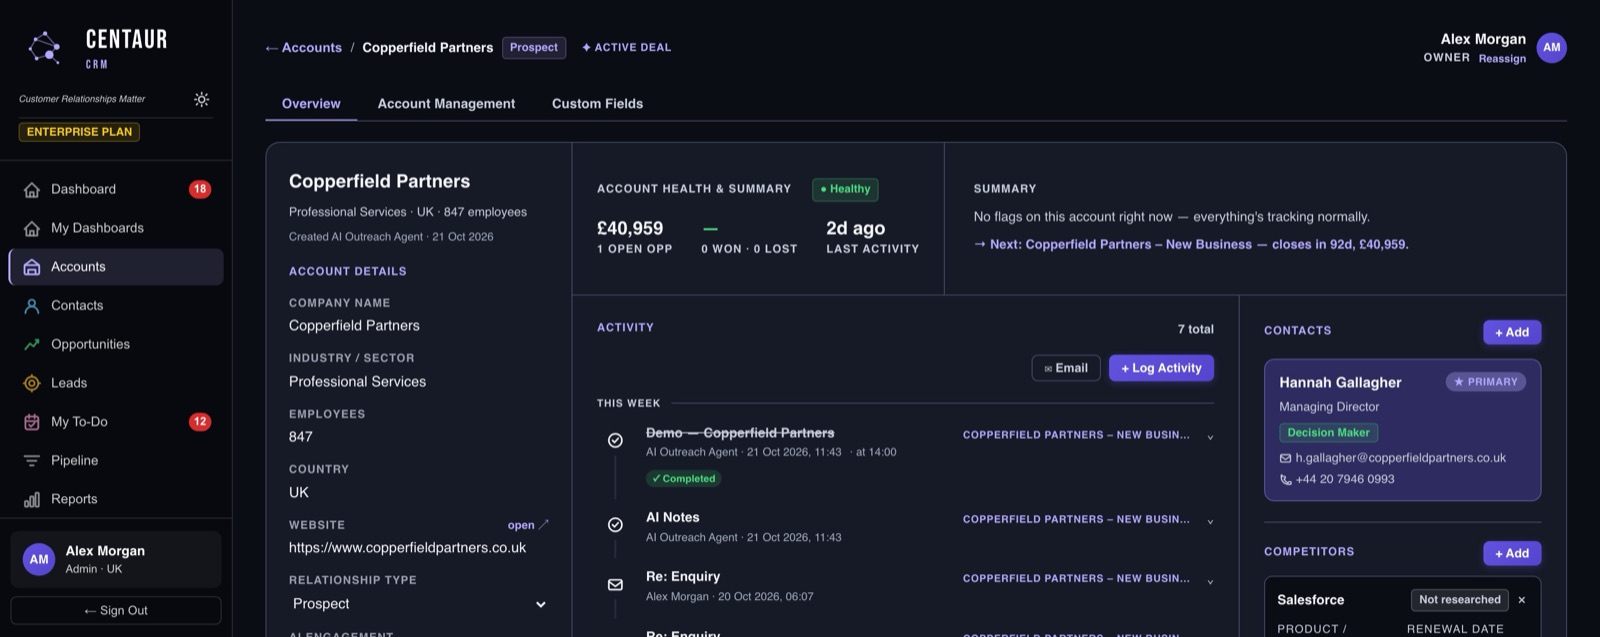
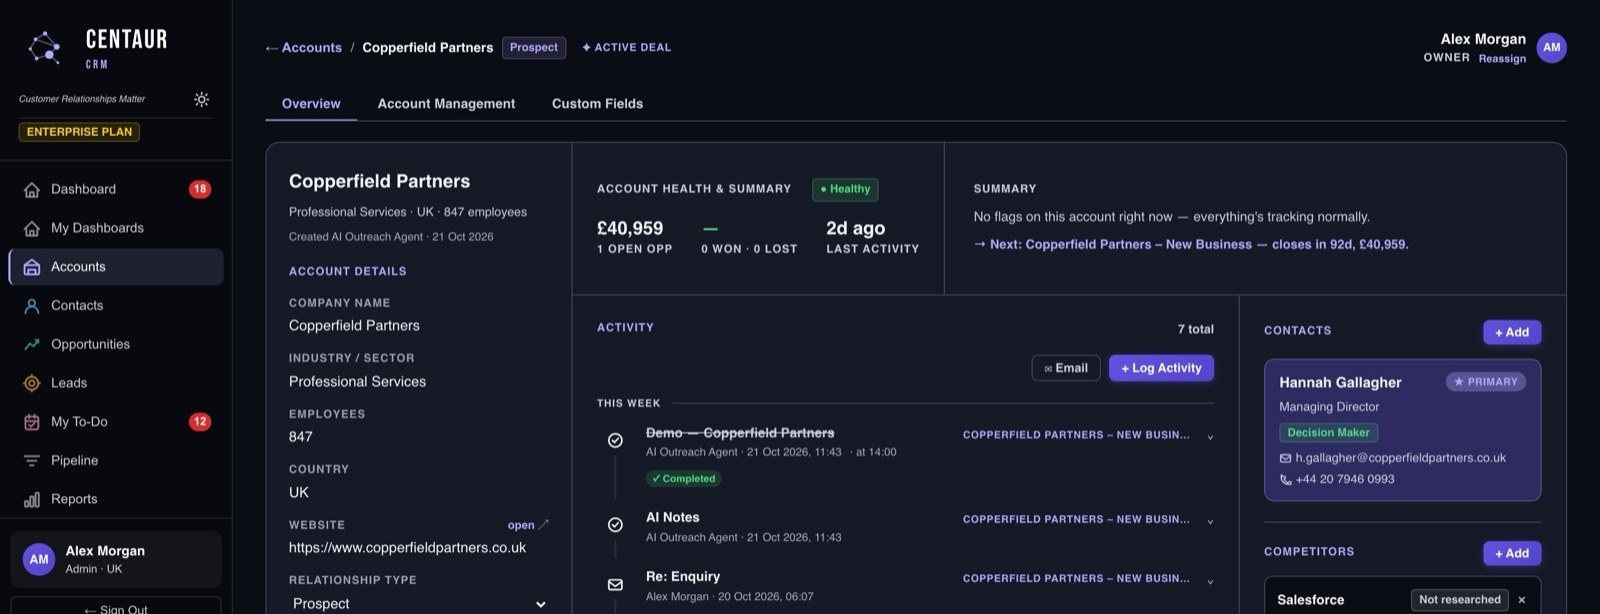
Tidy screenshots: trim each to end on a clean line; show the small panel shots whole instead of cropping
Claude-Session: https://claude.ai/code/session_013EbBgTSmr1onbXZxfe7xej

diff --git a/site/index.html b/site/index.html
@@ -196,8 +196,8 @@
   .panel-title .dot { width: 7px; height: 7px; border-radius: 50%; background: var(--violet); box-shadow: 0 0 0 3px var(--violet-wash); }
   .panel-tag { font-family: "IBM Plex Mono", monospace; font-size: 12px; color: var(--text-mute); text-transform: uppercase; letter-spacing: 0.1em; }
   .panel-body { padding: 18px; display: flex; flex-direction: column; gap: 12px; }
-  .panel-shot { display: block; width: 100%; height: 260px; object-fit: cover; object-position: top left; }
-  .mini-shot { display: block; width: 100%; height: 210px; object-fit: cover; object-position: top left; }
+  .panel-shot { display: block; width: 100%; height: auto; }
+  .mini-shot { display: block; width: 100%; height: auto; }
 
   .brief-row { display: flex; gap: 12px; align-items: flex-start; padding: 11px 13px; border-radius: var(--r-s); background: var(--surface-2); border: 1px solid var(--line-soft); }
   .brief-row.risk { background: var(--risk-wash); border-color: color-mix(in srgb, var(--risk) 32%, transparent); }
@@ -557,7 +557,7 @@
             <span class="panel-title"><span class="dot"></span> Today</span>
             <span class="panel-tag">real app · demo workspace</span>
           </div>
-          <img src="shots/today.jpg" width="1600" height="637" alt="Centaur CRM Today page: three things that need the rep today, including AI drafts waiting for approval and a deal at risk, with progress against the year's target" fetchpriority="high" />
+          <img src="shots/today.jpg" width="1600" height="545" alt="Centaur CRM Today page: three things that need the rep today, including AI drafts waiting for approval and a deal at risk, with progress against the year's target" fetchpriority="high" />
         </div>
         <figcaption><b>Your CRM, already up to date when you log in.</b> The agents have drafted the replies, flagged the deal at risk and lined up what needs you first. You just approve and sell.</figcaption>
       </figure>
@@ -698,7 +698,7 @@
           </div>
           <div class="mini">
             <div class="mini-h"><span>AI Activity · real capture</span><span>last 7 days</span></div>
-            <img class="mini-shot" src="shots/ai-activity.jpg" width="1600" height="637" alt="Centaur CRM AI Activity tab summing up the agents' week: emails drafted, deals opened, deal updates and meeting briefs" loading="lazy" />
+            <img class="mini-shot" src="shots/ai-activity.jpg" width="1600" height="558" alt="Centaur CRM AI Activity tab summing up the agents' week: emails drafted, deals opened, deal updates and meeting briefs" loading="lazy" />
           </div>
         </div>
 
@@ -716,7 +716,7 @@
           </div>
           <div class="mini">
             <div class="mini-h"><span>opportunity · AI summary and qualification</span><span>real capture</span></div>
-            <img class="mini-shot" src="shots/opp-ai-updates.jpg" width="1600" height="637" alt="Centaur CRM opportunity opened by the AI Outreach Agent, with its email history, deal-risk watch, competitor, written deal summary and completed BANT qualification" loading="lazy" />
+            <img class="mini-shot" src="shots/opp-ai-updates.jpg" width="1600" height="552" alt="Centaur CRM opportunity opened by the AI Outreach Agent, with its email history, deal-risk watch, competitor, written deal summary and completed BANT qualification" loading="lazy" />
           </div>
         </div>
 
@@ -829,31 +829,31 @@
       </div>
       <div class="realgrid">
         <div class="realcard wide">
-          <img src="shots/pipeline-summary.jpg" width="1600" height="637" alt="Centaur CRM Pipeline summary in dark theme: a plain-English summary, open pipeline, quarter won, win rate, pipeline by stage and the quarter's forecast" loading="lazy" />
+          <img src="shots/pipeline-summary.jpg" width="1600" height="610" alt="Centaur CRM Pipeline summary in dark theme: a plain-English summary, open pipeline, quarter won, win rate, pipeline by stage and the quarter's forecast" loading="lazy" />
           <div class="realcap"><span class="t">Pipeline summary</span><span class="d">Your pipeline this week in plain English, for you, your team or the whole company.</span></div>
         </div>
         <div class="realcard wide">
-          <img src="shots/pipeline.jpg" width="1600" height="637" alt="Centaur CRM pipeline kanban board in dark theme with deal cards across Prospecting, Qualification, Proposal and Negotiation columns" loading="lazy" />
+          <img src="shots/pipeline.jpg" width="1600" height="624" alt="Centaur CRM pipeline kanban board in dark theme with deal cards across Prospecting, Qualification, Proposal and Negotiation columns" loading="lazy" />
           <div class="realcap"><span class="t">Pipeline</span><span class="d">Every open deal by stage. Just drag and drop to move them along.</span></div>
         </div>
         <div class="realcard">
-          <img src="shots/accounts.jpg" width="1600" height="637" alt="Centaur CRM accounts list in dark theme showing a sortable, filterable, exportable table of company records" loading="lazy" />
+          <img src="shots/accounts.jpg" width="1600" height="594" alt="Centaur CRM accounts list in dark theme showing a sortable, filterable, exportable table of company records" loading="lazy" />
           <div class="realcap"><span class="t">Accounts</span><span class="d">Sort, filter and export the full list.</span></div>
         </div>
         <div class="realcard">
-          <img src="shots/today.jpg" width="1600" height="637" alt="Centaur CRM Today page in dark theme: the things that need the rep today, most important first, and progress against target" loading="lazy" />
+          <img src="shots/today.jpg" width="1600" height="545" alt="Centaur CRM Today page in dark theme: the things that need the rep today, most important first, and progress against target" loading="lazy" />
           <div class="realcap"><span class="t">Today</span><span class="d">What needs you first, and how you're tracking.</span></div>
         </div>
         <div class="realcard wide">
-          <img src="shots/account-detail.jpg" width="1600" height="637" alt="Centaur CRM account detail page in dark theme showing account health, a summary, contacts and activity in one layout" loading="lazy" />
+          <img src="shots/account-detail.jpg" width="1600" height="614" alt="Centaur CRM account detail page in dark theme showing account health, a summary, contacts and activity in one layout" loading="lazy" />
           <div class="realcap"><span class="t">Account detail</span><span class="d">Health, contacts and activity, all in one place.</span></div>
         </div>
         <div class="realcard wide">
-          <img src="shots/dash-stats.jpg" width="1600" height="640" alt="Centaur CRM custom dashboard in dark theme showing pipeline by product, pipeline by stage, deal status mix and new versus closed deals" loading="lazy" />
+          <img src="shots/dash-stats.jpg" width="1600" height="550" alt="Centaur CRM custom dashboard in dark theme showing pipeline by product, pipeline by stage, deal status mix and new versus closed deals" loading="lazy" />
           <div class="realcap"><span class="t">Custom dashboards — charts</span><span class="d">Build your own in My Dashboards and have it live in minutes, without waiting on anyone.</span></div>
         </div>
         <div class="realcard wide">
-          <img src="shots/dash-charts-revenue.jpg" width="1600" height="639" alt="Centaur CRM custom dashboard in dark theme showing a revenue trend, a rep leaderboard, a sales funnel and KPI tiles" loading="lazy" />
+          <img src="shots/dash-charts-revenue.jpg" width="1290" height="585" alt="Centaur CRM custom dashboard in dark theme showing a revenue trend, a rep leaderboard, a sales funnel and KPI tiles" loading="lazy" />
           <div class="realcap"><span class="t">Custom dashboards — KPIs and leaderboard</span><span class="d">Revenue trend, rep leaderboard, funnel and headline numbers, all on one screen.</span></div>
         </div>
       </div>
@@ -885,7 +885,7 @@
               <span class="panel-title"><span class="dot"></span> Pipeline</span>
               <span class="panel-tag">real capture</span>
             </div>
-            <img class="panel-shot" src="shots/pipeline.jpg" width="1600" height="637" alt="Centaur CRM pipeline kanban board with deal cards across Prospecting, Qualification, Proposal and Negotiation" loading="lazy" />
+            <img class="panel-shot" src="shots/pipeline.jpg" width="1600" height="624" alt="Centaur CRM pipeline kanban board with deal cards across Prospecting, Qualification, Proposal and Negotiation" loading="lazy" />
           </div>
         </div>
 
@@ -941,7 +941,7 @@
               <span class="panel-title"><span class="dot"></span> Sales Overview dashboard</span>
               <span class="panel-tag">real capture</span>
             </div>
-            <img class="panel-shot" src="shots/dash-charts-funnel.jpg" width="1600" height="639" alt="Centaur CRM custom dashboard showing a revenue trend, a rep leaderboard, a sales funnel and KPI tiles" loading="lazy" />
+            <img class="panel-shot" src="shots/dash-charts-funnel.jpg" width="1600" height="590" alt="Centaur CRM custom dashboard showing a revenue trend, a rep leaderboard, a sales funnel and KPI tiles" loading="lazy" />
           </div>
         </div>
 
